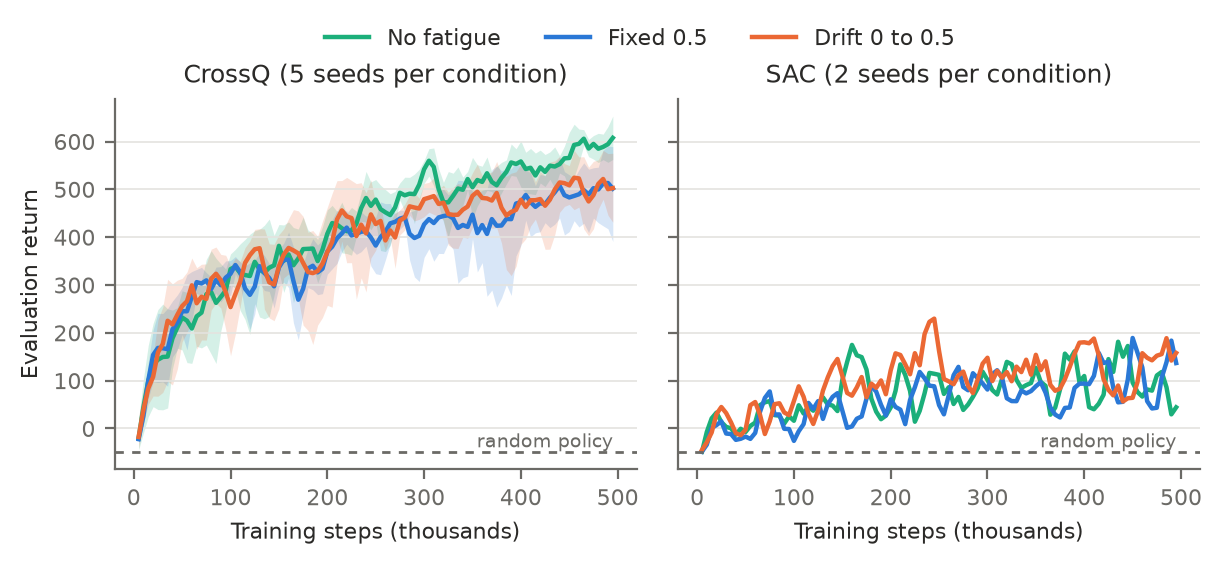
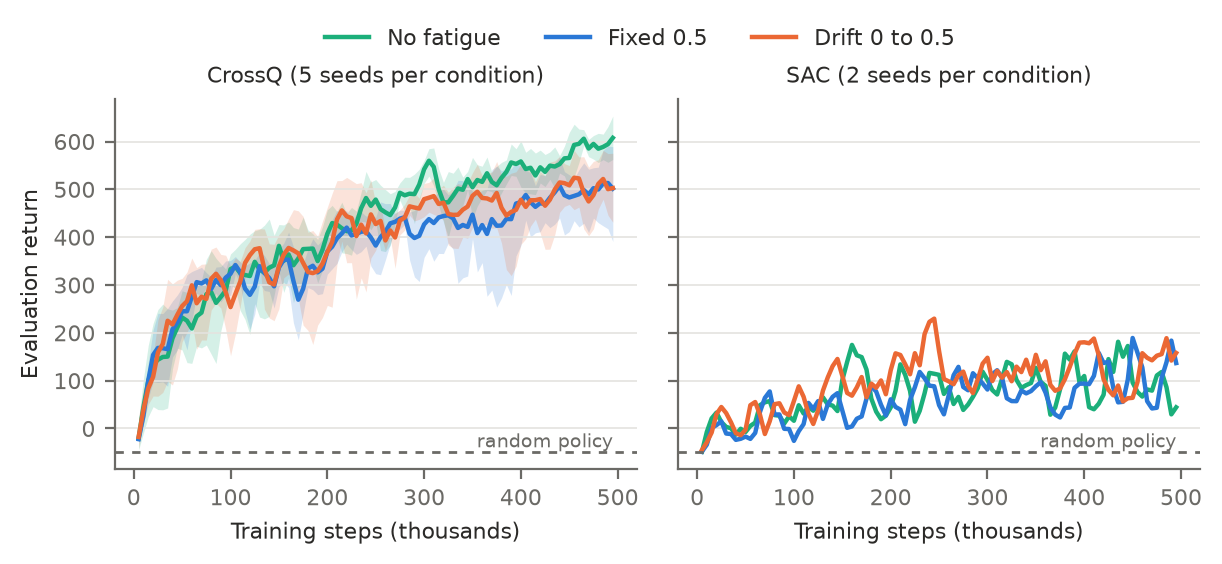
Add one-column learning-curve figure for the paper
Claude-Session: https://claude.ai/code/session_01UX2nyYeHRxnFgReKCyXjJ8

Changed region(s): [[0.1555, 0.0904, 0.4664, 0.1507], [0.6219, 0.0904, 0.9018, 0.1507]]

diff --git a/scripts/analyze_main.py b/scripts/analyze_main.py
@@ -285,34 +285,43 @@ def band(algo, cond, smooth=3):
     return tt, Y.mean(0), lo, hi, len(ss)
 
 
-fig, axes = plt.subplots(1, 2, figsize=(7.0, 2.4), sharey=True)
-for ax, (a, al) in zip(axes, ALGOS):
-    ns = []
-    for c, cl, col in CONDS:
-        b = band(a, c)
-        if b is None:
-            continue
-        tt, m, lo, hi, n = b
-        ns.append(f"{cl}: {n}")
-        if lo is not None:
-            ax.fill_between(tt / 1000, lo, hi, color=col, alpha=0.18, linewidth=0)
-        ax.plot(tt / 1000, m, color=col, linewidth=1.6, label=cl)
-    if "0" in random_ref:
-        ax.axhline(random_ref["0"], color=MUTED, linestyle=(0, (3, 3)), linewidth=1)
-        ax.text(495, random_ref["0"] + 10, "random policy", color=MUTED, fontsize=7, ha="right")
-    counts = sorted({x.split(": ")[1] for x in ns})
-    ax.set_title(f"{al} ({'/'.join(counts)} seeds per condition)", fontsize=9)
-    ax.set_xlabel("Training steps (thousands)")
-    ax.grid(axis="y", color=GRID, linewidth=0.6)
-    for side in ("top", "right"):
-        ax.spines[side].set_visible(False)
-axes[0].set_ylabel("Evaluation return")
-h, l = axes[0].get_legend_handles_labels()
-fig.legend(h, l, loc="upper center", bbox_to_anchor=(0.5, 1.07), ncol=4, frameon=False)
-fig.subplots_adjust(wspace=0.08)
-for ext in ("png", "pdf"):
-    fig.savefig(f"figures/main_curves.{ext}", dpi=200, bbox_inches="tight")
-plt.close(fig)
+def curves_figure(nrows, ncols, figsize, name):
+    fig, axes = plt.subplots(nrows, ncols, figsize=figsize, sharey=True, sharex=True)
+    for ax, (a, al) in zip(np.ravel(axes), ALGOS):
+        ns = []
+        for c, cl, col in CONDS:
+            b = band(a, c)
+            if b is None:
+                continue
+            tt, m, lo, hi, n = b
+            ns.append(f"{cl}: {n}")
+            if lo is not None:
+                ax.fill_between(tt / 1000, lo, hi, color=col, alpha=0.18, linewidth=0)
+            ax.plot(tt / 1000, m, color=col, linewidth=1.6, label=cl)
+        if "0" in random_ref:
+            ax.axhline(random_ref["0"], color=MUTED, linestyle=(0, (3, 3)), linewidth=1)
+            ax.text(495, random_ref["0"] + 10, "random policy", color=MUTED, fontsize=7, ha="right")
+        counts = sorted({x.split(": ")[1] for x in ns})
+        ax.set_title(f"{al} ({'/'.join(counts)} seeds per condition)", fontsize=8)
+        ax.set_ylabel("Evaluation return")
+        ax.grid(axis="y", color=GRID, linewidth=0.6)
+        for side in ("top", "right"):
+            ax.spines[side].set_visible(False)
+    np.ravel(axes)[-1].set_xlabel("Training steps (thousands)")
+    if ncols > 1:
+        np.ravel(axes)[0].set_xlabel("Training steps (thousands)")
+        np.ravel(axes)[1].set_ylabel("")
+    h, l = np.ravel(axes)[0].get_legend_handles_labels()
+    fig.legend(h, l, loc="upper center", bbox_to_anchor=(0.5, 1.07 if ncols > 1 else 1.04),
+               ncol=4 if ncols > 1 else 2, frameon=False)
+    fig.subplots_adjust(wspace=0.08, hspace=0.3)
+    for ext in ("png", "pdf"):
+        fig.savefig(f"figures/{name}.{ext}", dpi=200, bbox_inches="tight")
+    plt.close(fig)
+
+
+curves_figure(1, 2, (7.0, 2.4), "main_curves")            # two-column width
+curves_figure(2, 1, (3.4, 4.2), "main_curves_column")     # one-column width, for the paper
 
 
 # ---------------------------------------------------------------- Figure: paired differences
